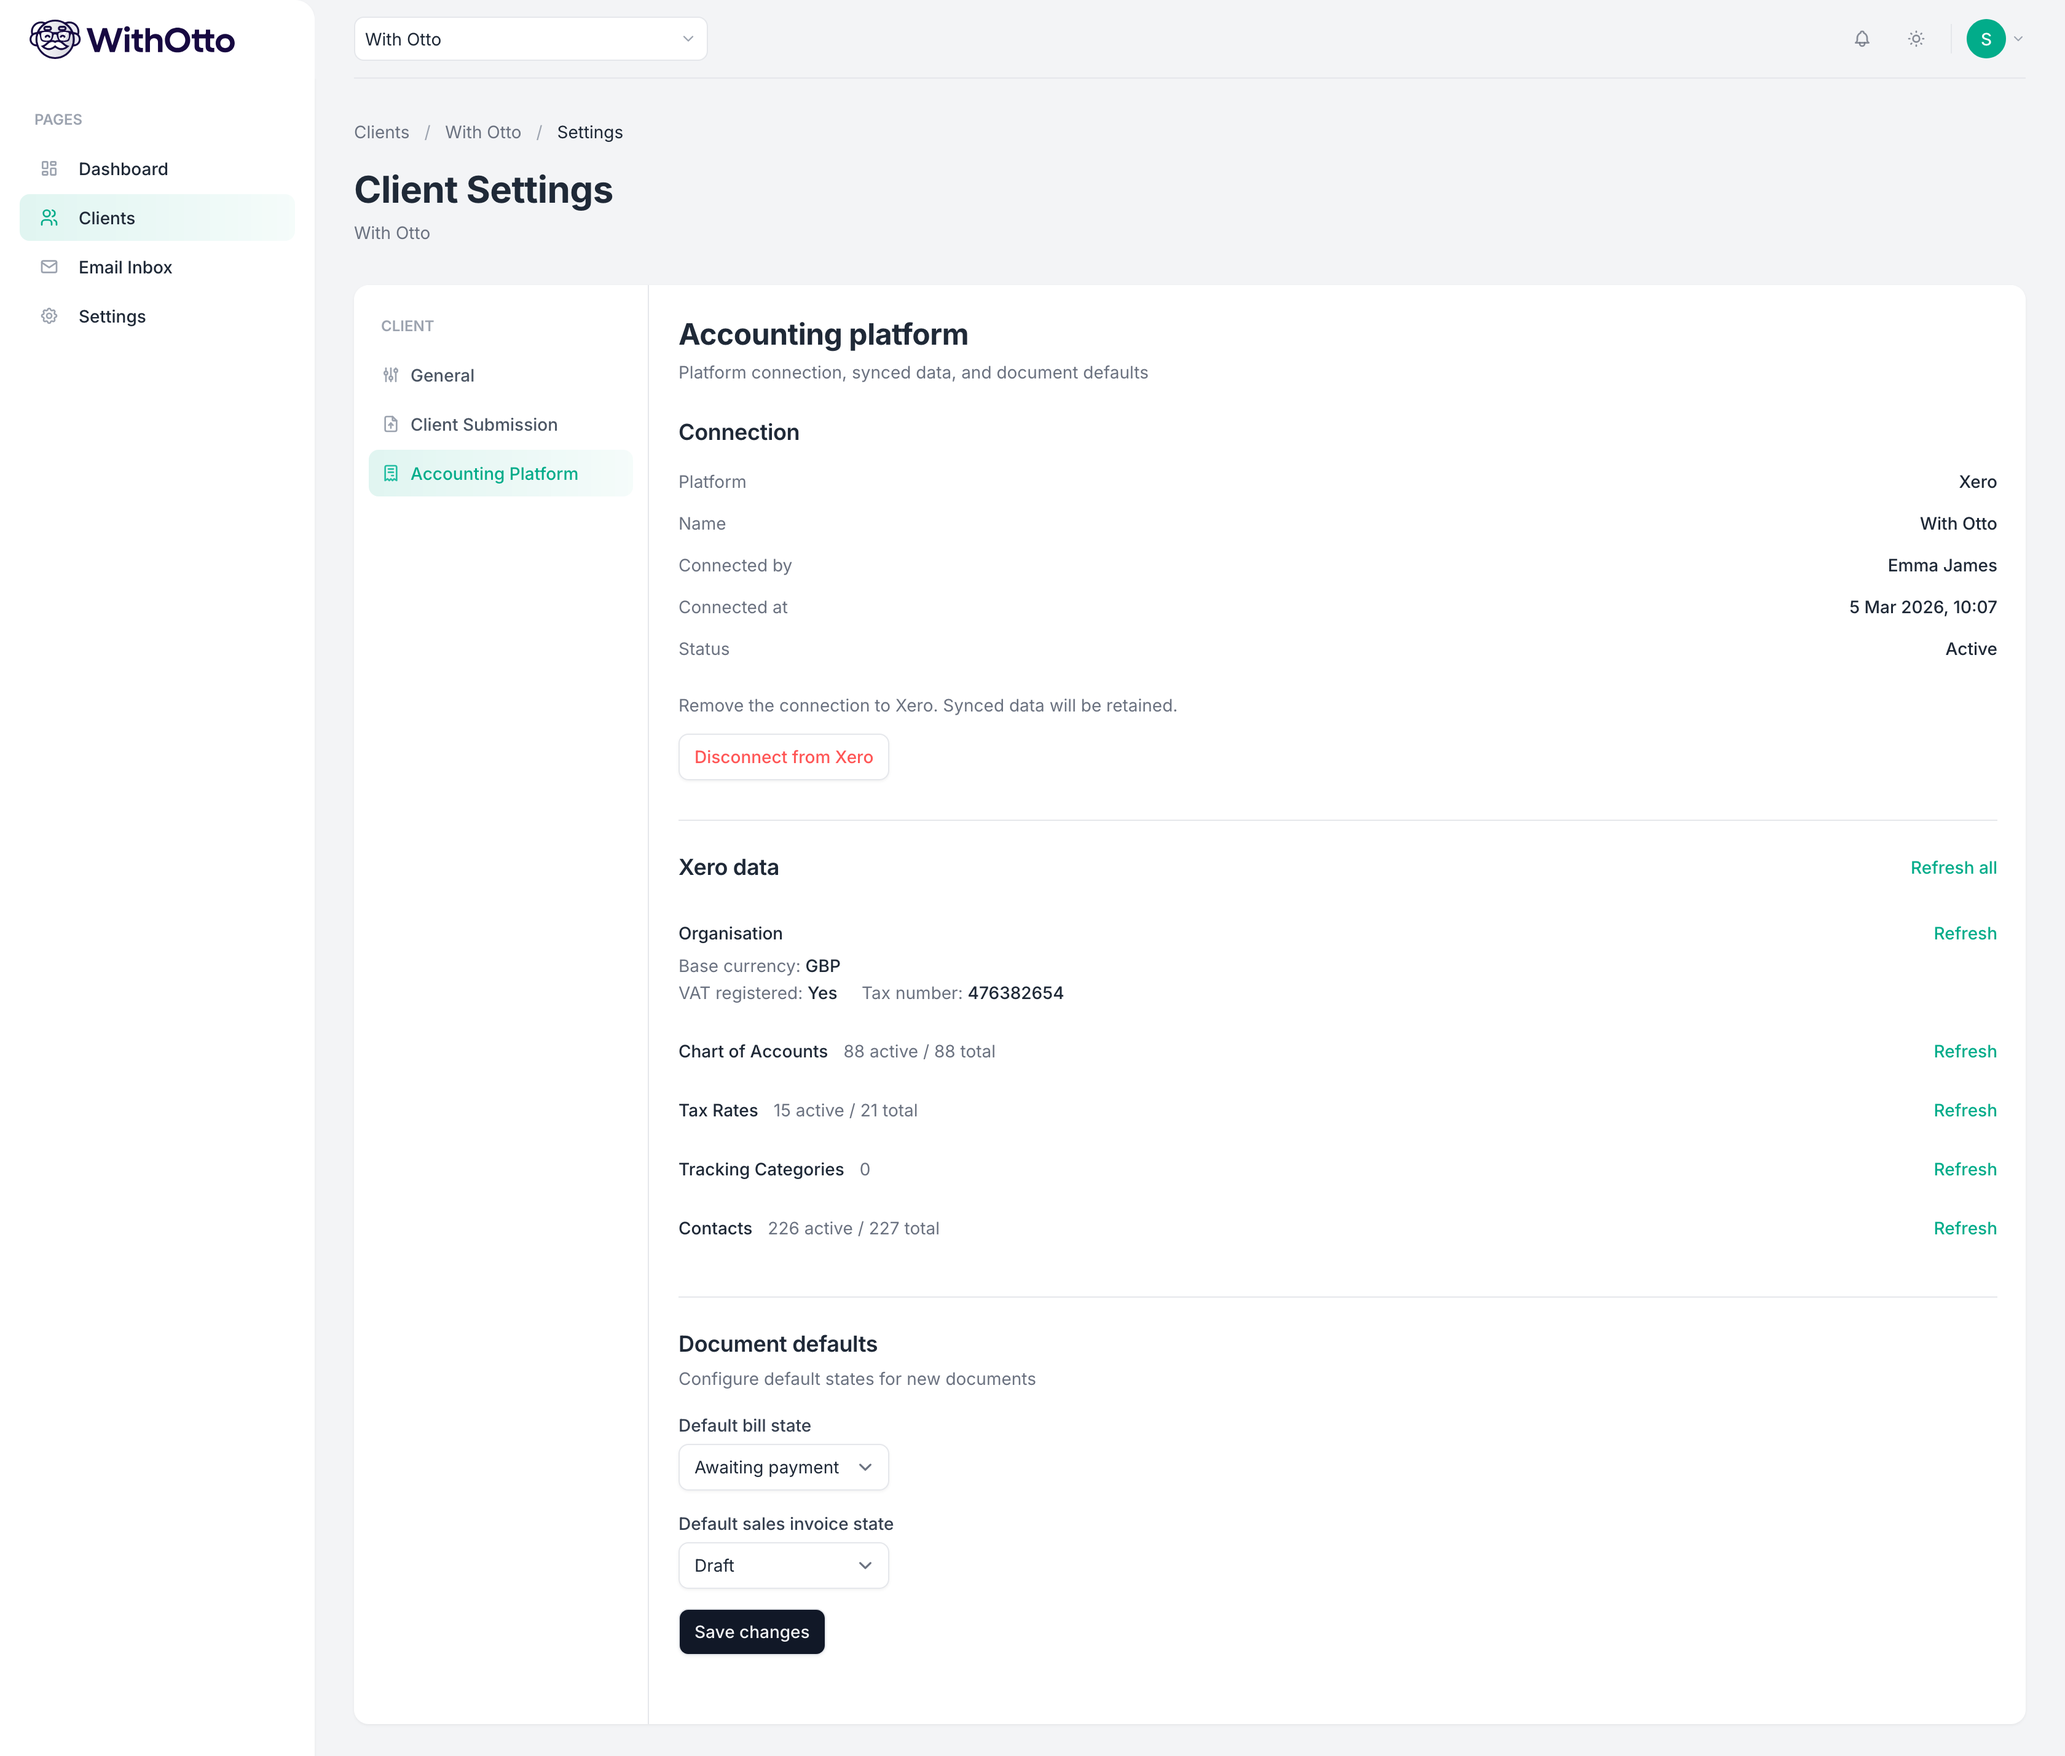
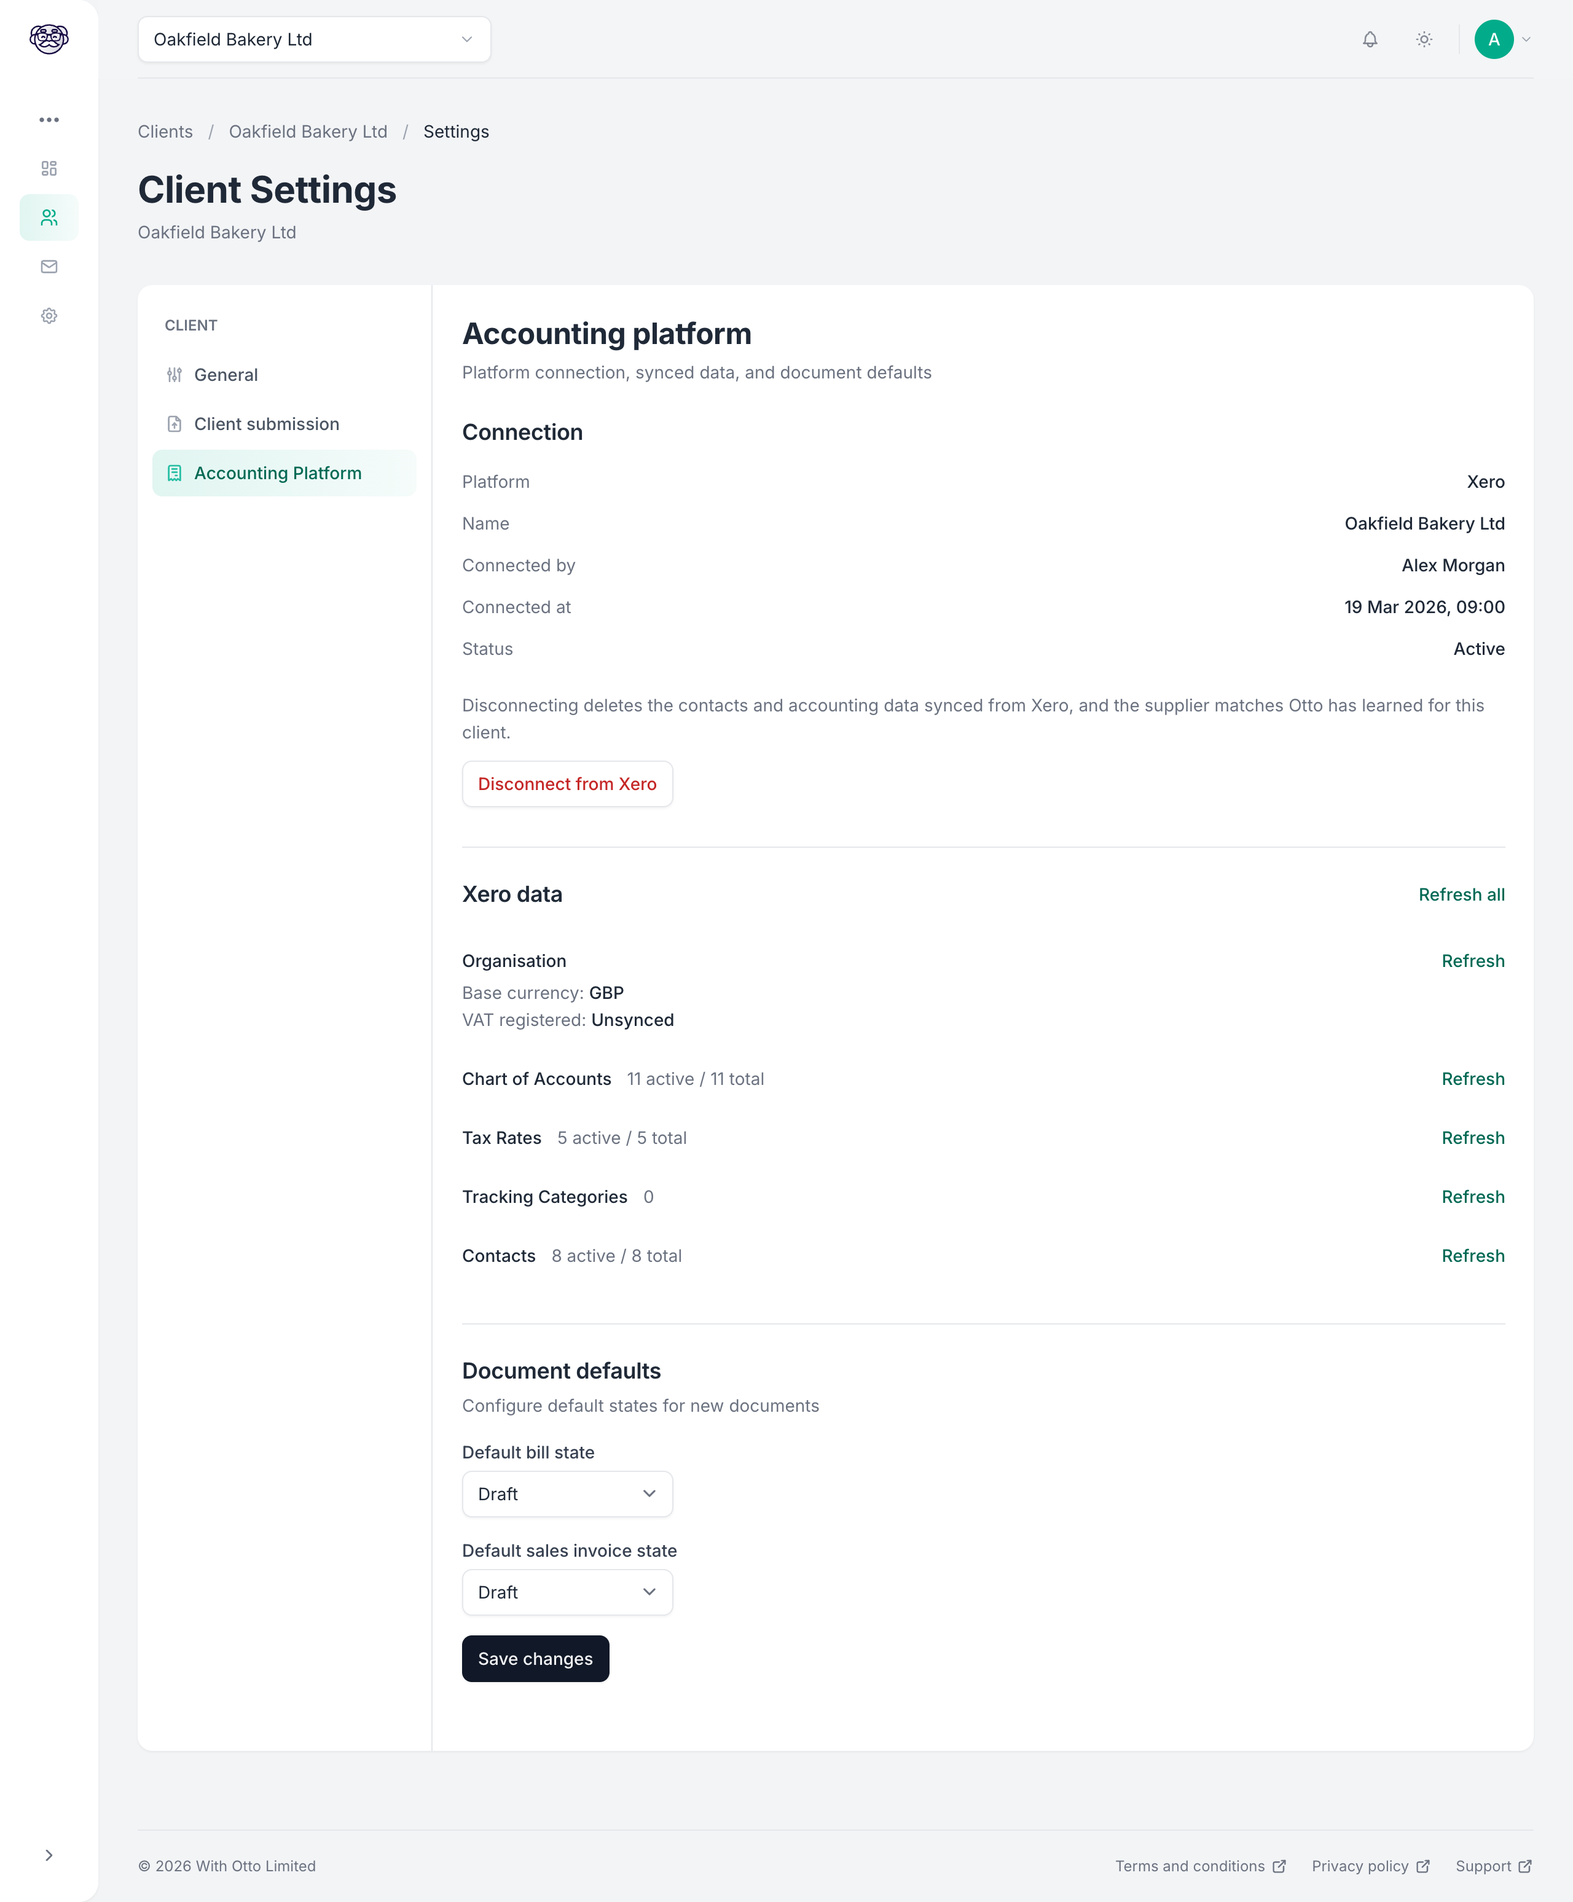
Regenerate Capture screenshots and add a mobile view to figures
The Capture screenshots were taken by hand from a real practice, so
they aged badly and showed data nobody could re-create. Three were
wrong rather than old: the client submission page showed a practice
name the product no longer uses, the platform picker said QuickBooks
instead of QuickBooks Online, and the review screen had lost its place
in the queue. They now come from the demo practice the capture
catalogue seeds, so any of them can be re-taken with one command.

ZoomableImage gains an optional Desktop / Mobile toggle, used by the
client submission page. It is CSS only, so it works on a page that
never hydrates, and a figure with no phone image renders as before.

Every figure also had two zoom buttons, which is live on production.
starlight-image-zoom wraps any MDX element named `Image` in its own
zoomable, and that was the name we imported ZoomableImage under. Pages
now import it as `ZoomableImage`, and the content rule says why.

- The zoom button is named from `label ?? alt`, never the caption,
  which is already read out under the image. Figures whose alt runs
  past 90 characters carry a short label, and the build fails if a new
  one doesn't.
- A caption's text and its aria-hidden flag come from one helper, so a
  caption the phone view inherits stays exposed to screen readers.
- Alt text drops the "Screenshot of" prefix site-wide, since a screen
  reader has already said it, and the alt-text rule now says so.

diff --git a/.claude/rules/support-withotto-content.md b/.claude/rules/support-withotto-content.md
@@ -30,7 +30,7 @@ Use TypeScript path aliases (defined in `tsconfig.json`):
 
 ```mdx
 import { Aside, Steps, Card, CardGrid } from "@astrojs/starlight/components";
-import Image from "@components/ZoomableImage.astro";
+import ZoomableImage from "@components/ZoomableImage.astro";
 import mySettings from "@assets/capture/getting-started/configuring-clients/client-settings-general.png";
 ```
 
@@ -38,13 +38,15 @@ import mySettings from "@assets/capture/getting-started/configuring-clients/clie
 
 - **Image paths mirror the content path exactly.** A doc at `src/content/docs/<area>/<section>/<page>.mdx` stores its images under `src/assets/<area>/<section>/<page>/*.png`. This is a firm convention; follow it when adding new screenshots.
 - Always import via `@assets/*` (not relative paths), so `astro:assets` can optimise them.
-- **Use `ZoomableImage` (aliased as `Image`) for screenshots**, not the bare `astro:assets` `Image`. It wraps `starlight-image-zoom` so users can click to zoom.
+- **Use `ZoomableImage` for screenshots**, not the bare `astro:assets` `Image`. It wraps `starlight-image-zoom` so users can click to zoom. **Import it as `ZoomableImage`, never as `Image`:** the plugin wraps any MDX element named `Image` in a second zoom control, which gives the figure a duplicate zoom button named from the full alt.
 - Image import identifiers are camelCase; Bank Rec pages conventionally suffix them with `Image` (e.g. `dashboardImage`, `usersListImage`). Capture pages use bare camelCase (e.g. `oauthConsent`, `generalSettings`). Match the neighbouring pages' style.
 
 ### Alt text
 
-- Portal / screenshot-heavy pages use **"Screenshot of the X page"** (e.g. `alt="Screenshot of the dashboard page"`).
+- Describe what the screen shows, naming the view and the parts the text refers to (e.g. `alt="The General tab of a client's settings, with the client name, the email prefix that forms its Capture address, and the VAT registration setting"`). No "Screenshot of" prefix: a screen reader already announces an image.
 - Conceptual/explanatory images use a descriptive sentence (e.g. `alt="Example of a reconciliation match"`).
+- The alt also names the zoom button ("Zoom image: {alt}"). When it runs past 90 characters, add a `label` of a few words (e.g. `label="General tab"`); the build fails until you do. Don't reuse the caption as the label: it is read out under the image already.
+- A `caption` says something the alt doesn't. Without one, the alt is shown as the caption and hidden from screen readers.
 
 ## Internal Links
 
@@ -63,12 +65,12 @@ Do NOT use relative paths (`../guides/smartmatch`, `./feedback`). Absolute paths
 
 All in `src/components/`:
 
-| Component             | Purpose                                          | Usage                                                                      |
-| --------------------- | ------------------------------------------------ | -------------------------------------------------------------------------- |
-| `ZoomableImage.astro` | Zoomable screenshot (wraps `astro:assets` Image) | `<Image src={img} alt="..." />`                                            |
-| `GuideJar.astro`      | Embed interactive guide from guidejar.com        | `<GuideJar id="<guide-id>" />`                                             |
-| `Trace.astro`         | Embed interactive guide from app.tracework.ai    | `<Trace id="<guide-id>" />`                                                |
-| `Footer.astro`        | Default footer + company/legal info block        | Registered in `astro.config.mjs` → `starlight({ components: { Footer } })` |
+| Component             | Purpose                                                                                                                                               | Usage                                                                      |
+| --------------------- | ----------------------------------------------------------------------------------------------------------------------------------------------------- | -------------------------------------------------------------------------- |
+| `ZoomableImage.astro` | Zoomable screenshot (wraps `astro:assets` Image); optional `caption`, `label`, and `phoneSrc`/`phoneAlt`/`phoneCaption` for a Desktop / Mobile toggle | `<ZoomableImage src={img} alt="..." label="..." />`                        |
+| `GuideJar.astro`      | Embed interactive guide from guidejar.com                                                                                                             | `<GuideJar id="<guide-id>" />`                                             |
+| `Trace.astro`         | Embed interactive guide from app.tracework.ai                                                                                                         | `<Trace id="<guide-id>" />`                                                |
+| `Footer.astro`        | Default footer + company/legal info block                                                                                                             | Registered in `astro.config.mjs` → `starlight({ components: { Footer } })` |
 
 **Iframe URLs embedded by these components:**
 
